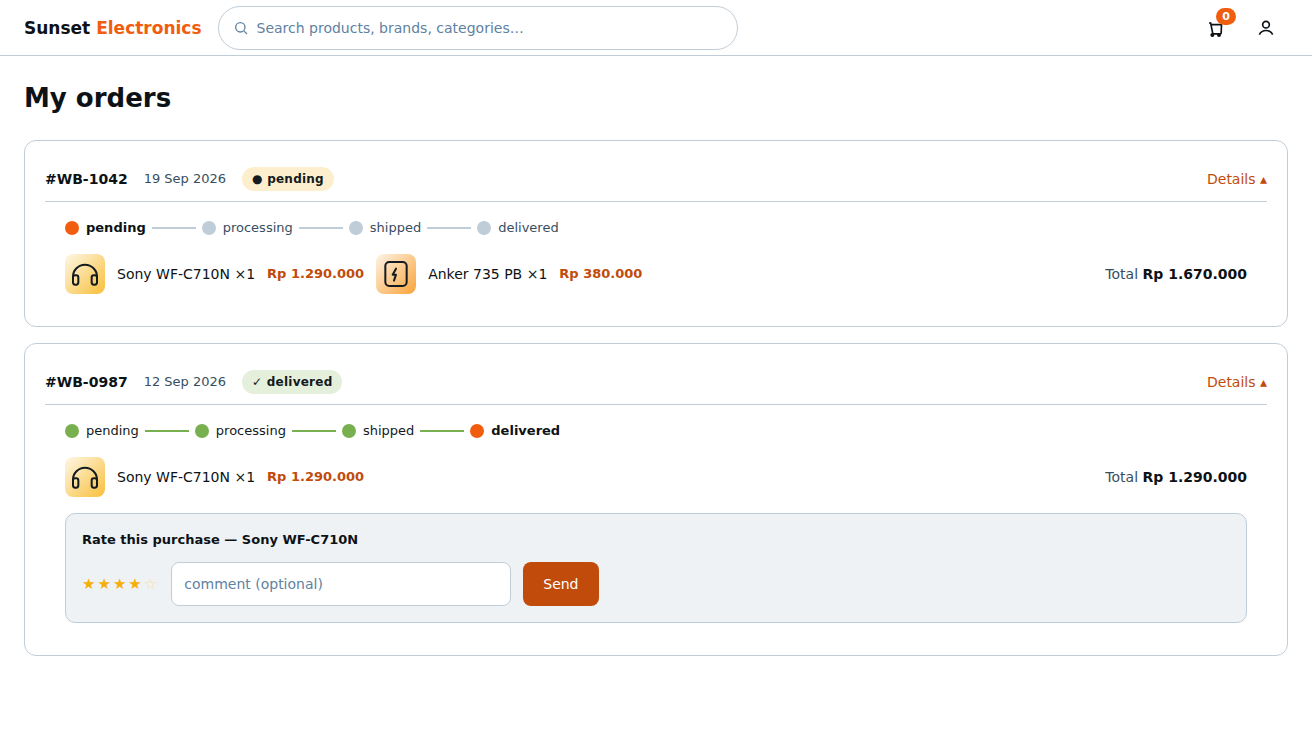
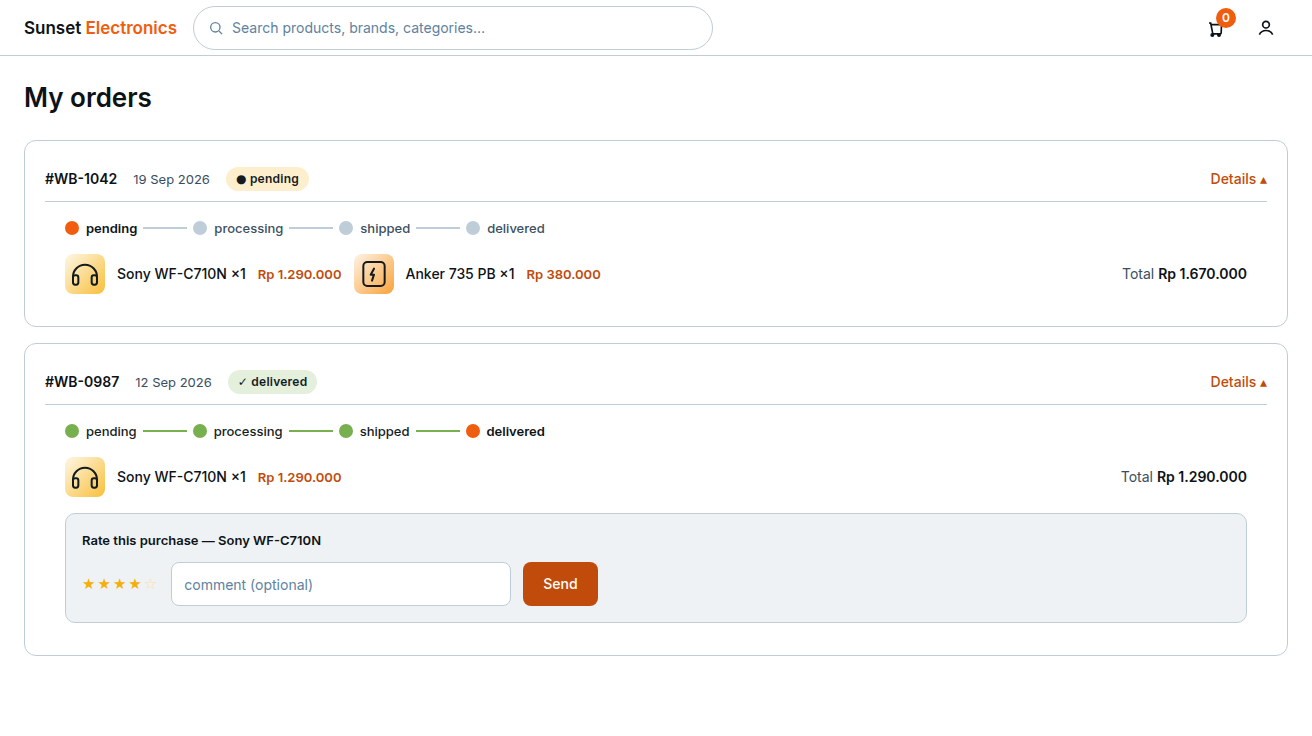
docs: raise .nbadge + cart .badge to 12px (round-3 §7.5 text floor)
nbadge: 11px→12px, padding 1px 7px→2px 7px, lh 16px (ops side nav counts)
.hicon .badge: 11px→12px, padding 1px 6px→2px 6px, lh 15px→16px (cart header)
Floor rule: no element below 12px in any of the 13 mockup HTMLs.
Re-rendered 13/13 PNGs (headless Chromium 1312x736) via _mockup-build/render.py,
synced to docs/<page>/mockup.png.

diff --git a/_mockup-build/lib.py b/_mockup-build/lib.py
@@ -85,7 +85,7 @@ letter-spacing:var(--track-section);color:var(--bs-950)}
 }
 .hicon{display:flex;align-items:center;justify-content:center;width:44px;height:44px;color:var(--bs-950);position:relative;cursor:pointer}
 .hicon .badge{position:absolute;top:2px;right:0;background:var(--at-500);color:#fff;border-radius:var(--radius-pill);
-font-size:11px;font-weight:600;padding:1px 6px;line-height:15px} /* TBD: per open decision #3 (cart color accents) */
+font-size:12px;font-weight:600;padding:2px 6px;line-height:16px} /* TBD: per open decision #3 (cart color accents) */
 /* ---- buttons (§3.2) ---- */
 .btn-p{display:inline-flex;align-items:center;justify-content:center;min-height:var(--touch-min);min-width:var(--touch-min);
 padding:0 20px;border-radius:8px;border:0;cursor:pointer;background:var(--at-600);color:#fff;
@@ -162,7 +162,7 @@ svg{flex:none}
 .oside .os-title b{color:var(--ts-400);font-weight:600}
 .onav{display:flex;align-items:center;gap:8px;padding:0 10px;min-height:44px;border-radius:8px;font-size:14px;font-weight:500;color:var(--bs-50);border-left:3px solid transparent;cursor:pointer}
 .onav.active{background:var(--bs-800);border-left-color:var(--at-500);font-weight:600}
-.onav .nbadge{margin-left:auto;background:var(--sr-600);color:#fff;border-radius:var(--radius-pill);font-size:11px;font-weight:600;padding:1px 7px}
+.onav .nbadge{margin-left:auto;background:var(--sr-600);color:#fff;border-radius:var(--radius-pill);font-size:12px;line-height:16px;font-weight:600;padding:2px 7px}
 .foot{font-size:12px;color:var(--bs-500);margin:12px 8px 0;line-height:1.5}
 .ops-main{flex:1;padding:20px 24px;overflow:hidden}
 /* ---- timeline ---- */
